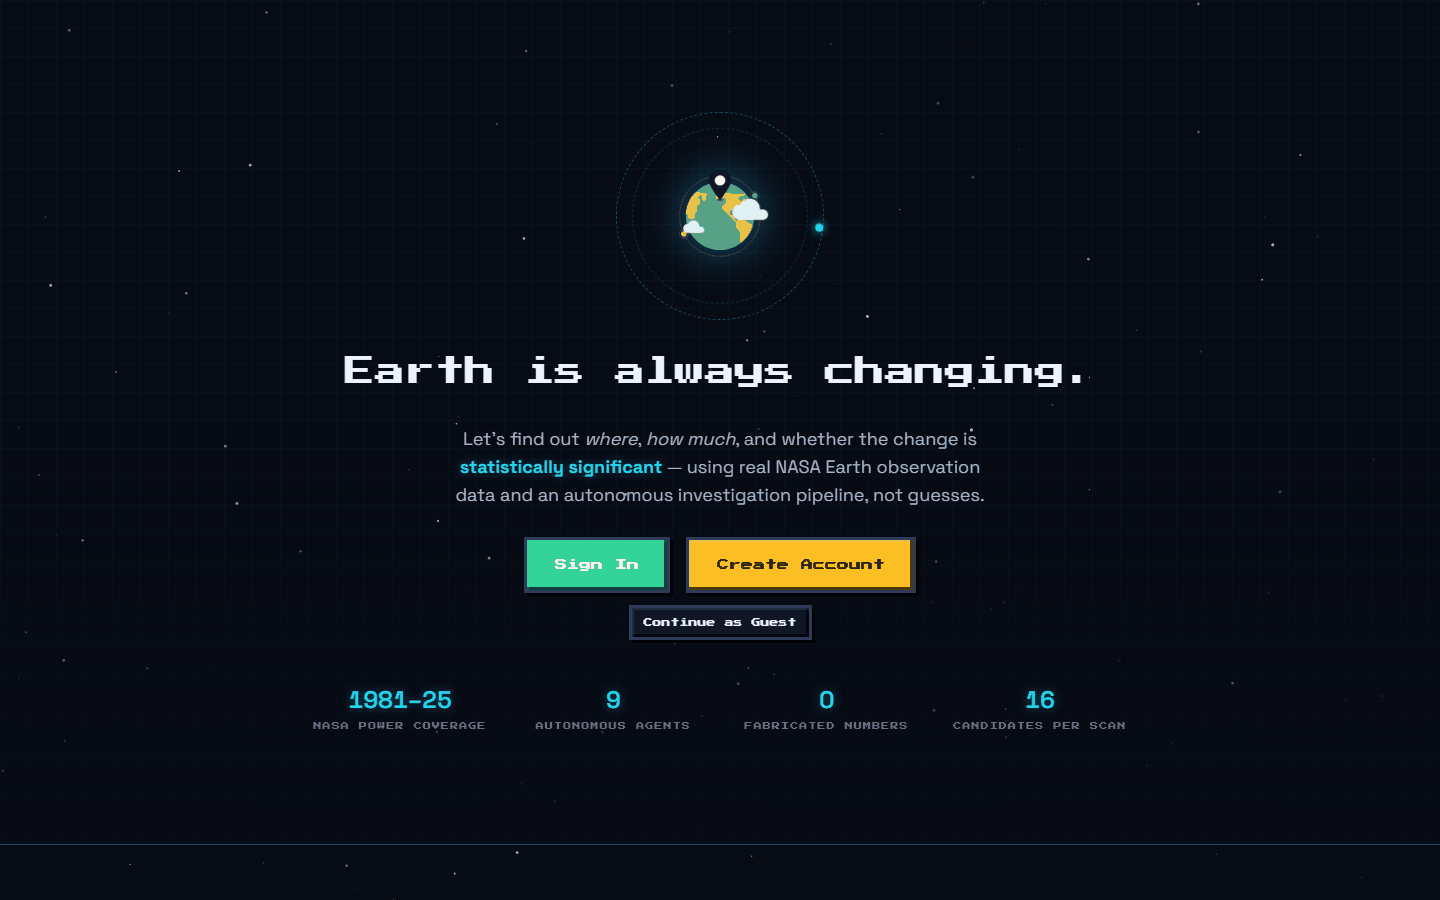
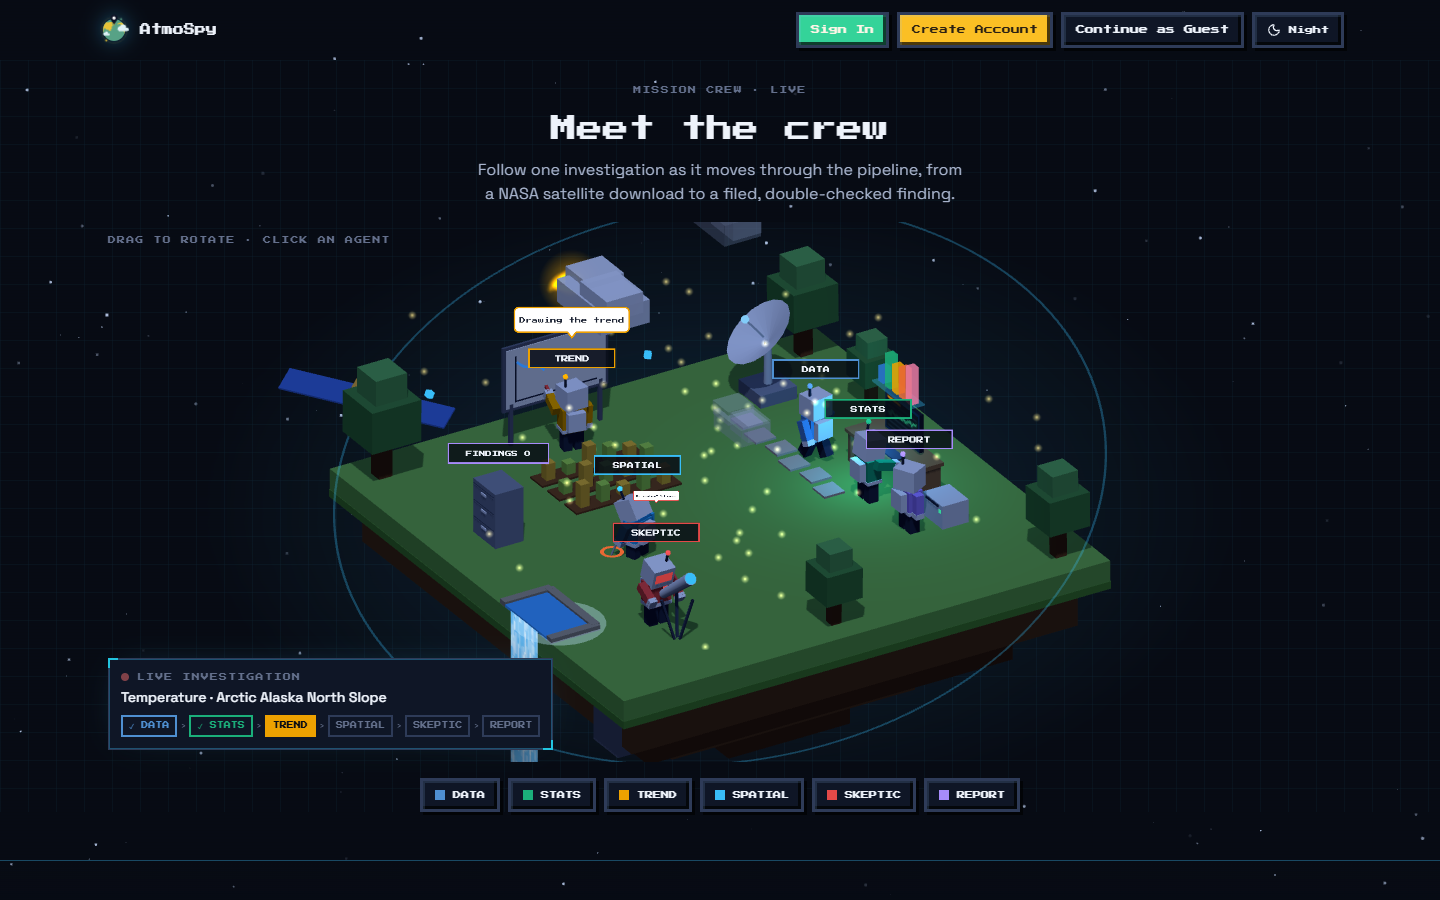
Final Files

diff --git a/frontend/components/layout/HeroAuthCTA.tsx b/frontend/components/layout/HeroAuthCTA.tsx
@@ -5,11 +5,11 @@ import { useState } from "react";
 import { useAuth } from "@/lib/AuthContext";
 import { PixelButton, PixelLinkButton } from "@/components/ui/button";
 
-// The landing page's own auth entry point — there is no top-level NavBar or
-// header on "/" any more, so this is the only way in. Discover/Investigate
-// used to sit here as direct links that skipped auth entirely; now the
-// landing page's job is purely to get a session started before handing off
-// to /home.
+// The landing page's own auth entry point — there is no NavBar on "/", so
+// this (in the landing page's top-right header) is the only way in.
+// Discover/Investigate used to sit here as direct links that skipped auth
+// entirely; now the landing page's job is purely to get a session started
+// before handing off to /home.
 export function HeroAuthCTA() {
   const { user, loading, loginAsGuest, error, clearError } = useAuth();
   const router = useRouter();
@@ -29,31 +29,40 @@ export function HeroAuthCTA() {
   }
 
   if (loading) {
-    return <div className="h-[52px] w-64 animate-pulse rounded-sm bg-[var(--app-panel-alt)]" />;
+    return <div className="h-[34px] w-72 animate-pulse rounded-sm bg-[var(--app-panel-alt)]" />;
   }
 
   if (user) {
     return (
-      <PixelLinkButton href="/home" variant="primary" size="lg">
+      <PixelLinkButton href="/home" variant="primary" size="sm">
         Go to Mission Console
       </PixelLinkButton>
     );
   }
 
   return (
-    <div className="flex flex-col items-center gap-3">
-      <div className="flex flex-col gap-4 sm:flex-row">
-        <PixelLinkButton href="/login" variant="primary" size="lg">
-          Sign In
-        </PixelLinkButton>
-        <PixelLinkButton href="/signup" variant="gold" size="lg">
-          Create Account
-        </PixelLinkButton>
-      </div>
+    <div className="relative flex flex-wrap items-center justify-center gap-2 sm:justify-end">
+      <PixelLinkButton href="/login" variant="primary" size="sm">
+        Sign In
+      </PixelLinkButton>
+      <PixelLinkButton href="/signup" variant="gold" size="sm">
+        Create Account
+      </PixelLinkButton>
       <PixelButton type="button" variant="ghost" size="sm" onClick={handleGuest} disabled={guestLoading}>
-        {guestLoading ? "Starting..." : "Continue as Guest"}
+        {guestLoading ? (
+          "Starting..."
+        ) : (
+          <>
+            <span className="sm:hidden">Guest</span>
+            <span className="hidden sm:inline">Continue as Guest</span>
+          </>
+        )}
       </PixelButton>
-      {error && <p className="text-xs text-[var(--chart-critical)]">{error}</p>}
+      {error && (
+        <p className="absolute right-0 top-full mt-2 text-xs text-[var(--chart-critical)]" role="alert">
+          {error}
+        </p>
+      )}
     </div>
   );
 }

diff --git a/frontend/app/page.tsx b/frontend/app/page.tsx
@@ -33,13 +33,19 @@ const MISSION_STATS = [
 export default function LandingPage() {
   return (
     <div className="relative overflow-hidden">
-      {/* Top bar: small logo left, theme toggle right. */}
-      <header className="relative z-10 mx-auto flex max-w-7xl items-center justify-between px-4 py-3">
+      {/* Top bar: small logo left; sign-in buttons + theme toggle right. */}
+      <header className="relative z-10 mx-auto flex max-w-7xl flex-wrap items-center justify-between gap-3 px-4 py-3">
         <Link href="/" className="flex items-center gap-2" aria-label="AtmoSpy home">
           <Logo size={36} className="drop-shadow-[0_0_10px_var(--app-glow)]" />
           <span className="font-display text-[11px] text-[var(--app-ink)]">AtmoSpy</span>
         </Link>
-        <ThemeToggle />
+        {/* Phones: toggle stays on the logo row, auth buttons wrap below. */}
+        <div className="order-3 w-full sm:order-2 sm:ml-auto sm:w-auto">
+          <HeroAuthCTA />
+        </div>
+        <div className="order-2 sm:order-3">
+          <ThemeToggle />
+        </div>
       </header>
 
       {/* Hero: the crew at work. */}
@@ -62,7 +68,7 @@ export default function LandingPage() {
         </div>
       </section>
 
-      {/* Pitch + sign-in. */}
+      {/* Pitch. */}
       <div className="relative border-y border-[var(--app-hud-line)] mt-12">
         <div className="absolute inset-0 bg-gradient-to-b from-transparent to-[var(--app-bg)]" />
         <div className="relative mx-auto max-w-6xl px-4 py-16 sm:py-20">
@@ -75,8 +81,6 @@ export default function LandingPage() {
               <strong className="glow-text-cyan">statistically significant</strong> — using real NASA Earth
               observation data and an autonomous investigation pipeline, not guesses.
             </p>
-
-            <HeroAuthCTA />
 
             <div className="mt-4 grid grid-cols-2 gap-x-10 gap-y-4 sm:grid-cols-4">
               {MISSION_STATS.map((s) => (

diff --git a/README.md b/README.md
@@ -15,6 +15,16 @@ Every investigation answers four questions with real numbers:
 
 ## Features
 
+### Meet the crew
+
+The landing page opens on a 3D island where the agents act out a live investigation. A glowing orb carries a real Discover topic, such as "Soil moisture · Lake Chad Basin", from agent to agent: the data agent downloads it from the satellite, statistics crunches it, trend plots it, spatial probes the grid cells, the skeptic challenges it and the report agent files it as a finding. A panel shows which stage the investigation is at. Drag to rotate the island, and click an agent to see what it does and what it is doing right now.
+
+| Light | Dark |
+|---|---|
+| ![Meet the crew close-up](screenshots/crew-light.png) | ![Meet the crew close-up](screenshots/crew-dark.png) |
+
+The scene is an illustration of the pipeline. Its topics are real Discover pairs, but it computes nothing and shows no numbers.
+
 ### Discover
 
 One click scans 16 region and variable pairs at once. Sixteen investigations run the full agent pipeline in parallel, and the results are ranked by criteria that are shown on screen: trend size, significance, data completeness, consistency over time and spatial extent. The scan keeps running if you switch pages and picks up where it left off when you return.
